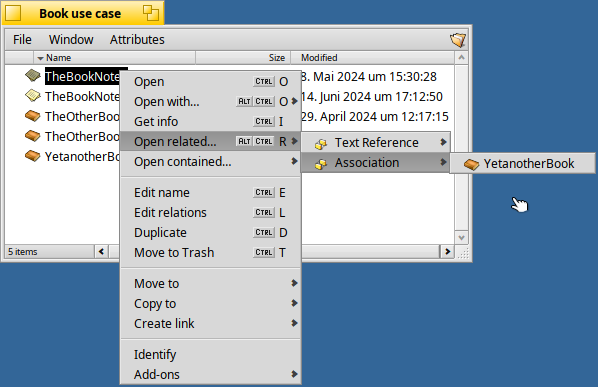
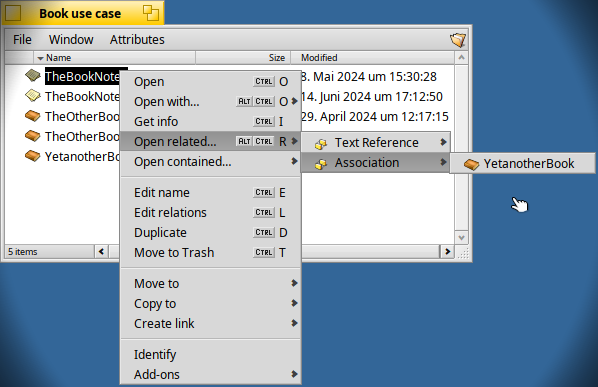
add last touches to index and landing page, screenshot effects, lead in text.

diff --git a/index.html b/index.html
@@ -7,12 +7,15 @@
   </head>
   <body>
     <header>
+      <p style="padding-left:342px;"><nobr>Knowledge management at your fingertips…</nobr></p>
     </header>
     <main>
-      <img src="resources/sen-logo.webp" alt="SEN logo" width="64%" height="auto"/>
+      <div align="center">
+        <img src="resources/sen-logo.webp" alt="SEN logo" width="64%" height="auto"/>
+      </div>
     </main>
     <footer>
-      <a href="landing/index.html"><h1>Enter</h1></a>
+      <a href="landing/index.html"><h1 style="padding-left:168px;">Enter</h1></a>
     </footer>
   </body>
 </html>

diff --git a/landing/index.html b/landing/index.html
@@ -10,6 +10,7 @@
 <body>
 <!-- partial:index.partial.html -->
 <header>
+  <h2 style="padding-bottom:16px;">What if your desktop could be…</h2>
   <img src="images/semantic-office.jpg" alt="a semantic office" width="800" height="auto" />
   <h1>
     <span aria-hidden="true">A /home</span>
